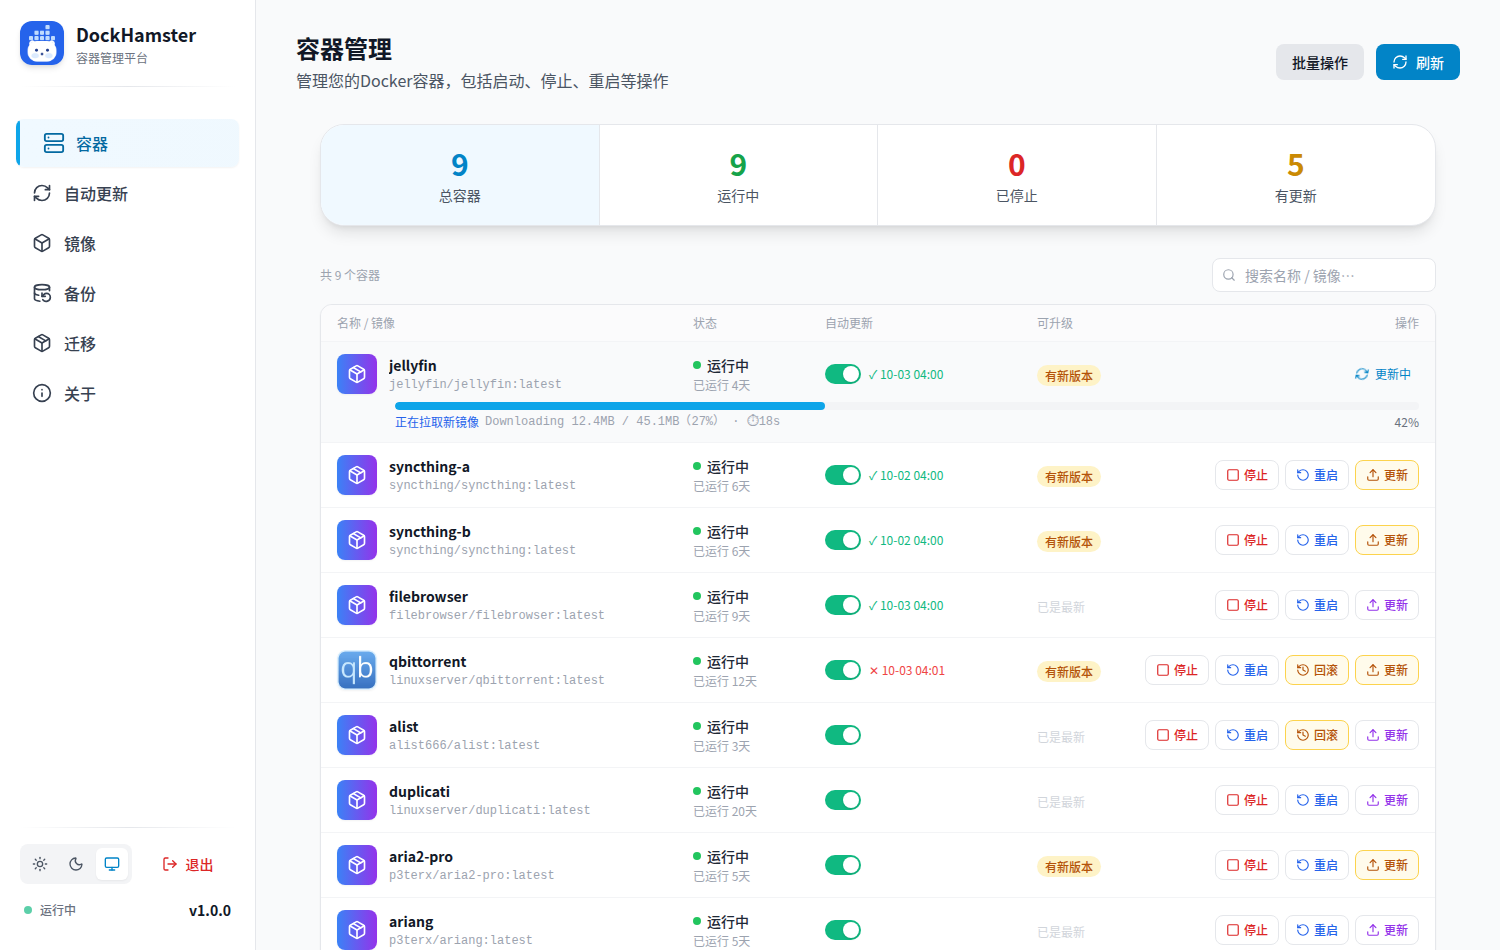
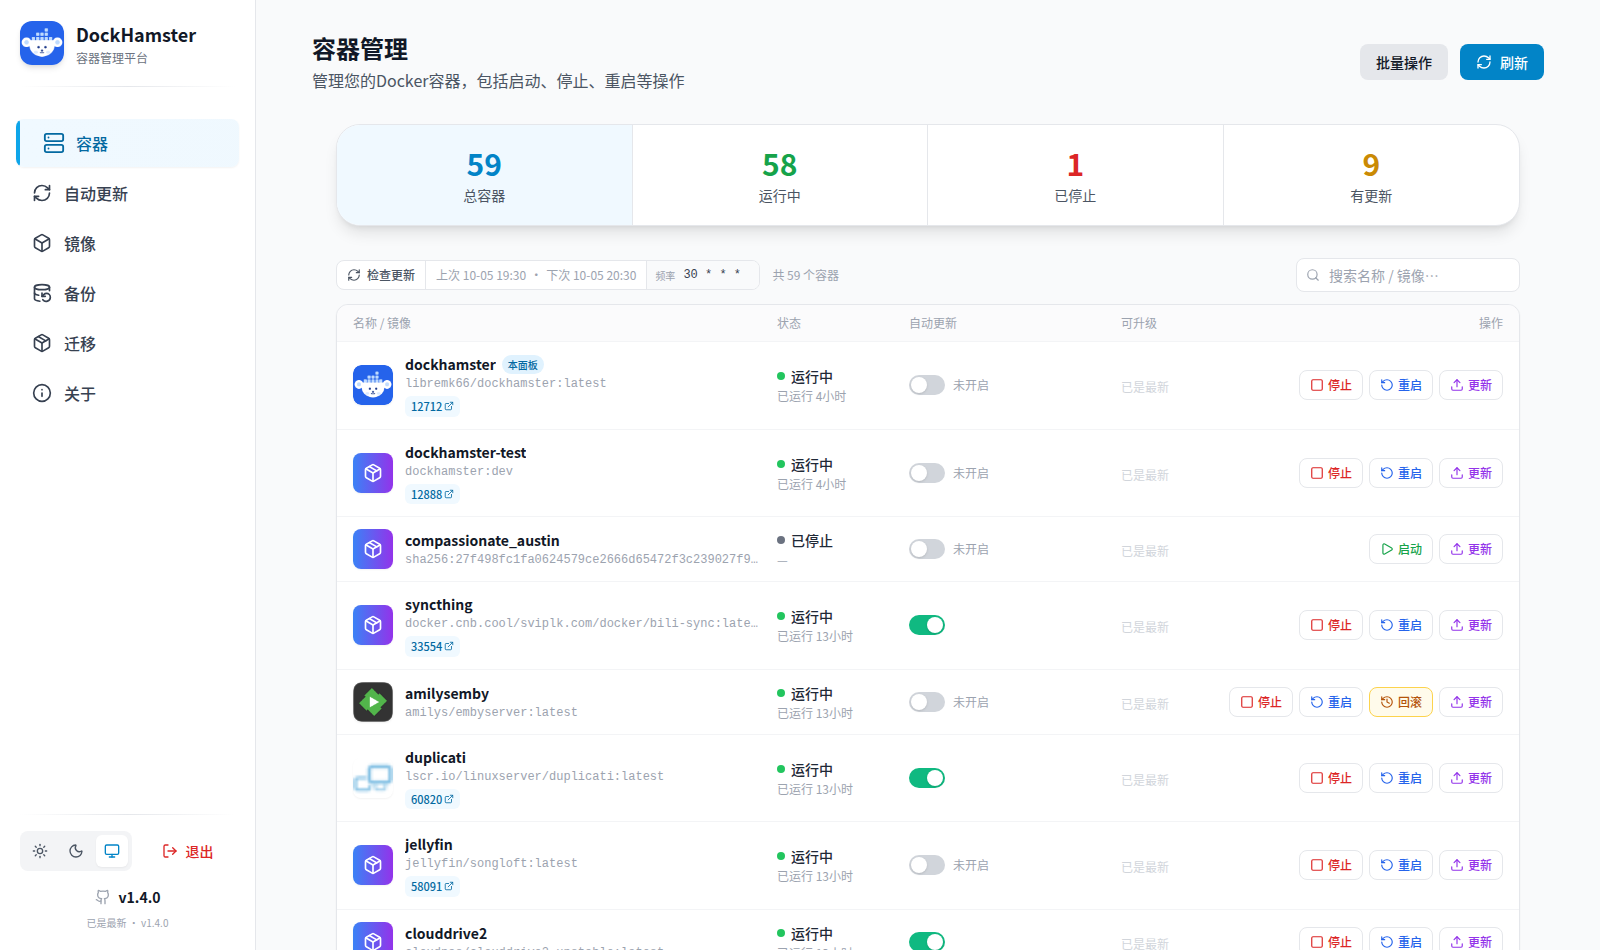
docs: 补充 v1.4.0 新功能说明与截图（端口直达/加速源/面板自更新/健康校验回滚/容器守护），更新参考项目致谢 [skip ci]

diff --git a/README.md b/README.md
@@ -7,7 +7,7 @@
 [![License](https://img.shields.io/badge/license-AGPL--3.0-blue)](LICENSE)
 
 > **Docker 容器管理面板 · 增强版**
-> 基于 [onlyLTY/dockerCopilot](https://github.com/onlyLTY/dockerCopilot)（AGPL-3.0）二次开发，专注"省心的容器运维"：自动更新、旧镜像清理、整组更新、多渠道通知、实时进度、列表化界面。
+> 基于 [onlyLTY/dockerCopilot](https://github.com/onlyLTY/dockerCopilot)（AGPL-3.0）二次开发，专注"省心的容器运维"：自动更新、旧镜像清理、整组更新、多渠道通知、实时进度、列表化界面、镜像加速源、更新健康校验与自动回滚、面板自更新、容器异常守护、Web 端口直达。
 
 ## 目录
 
@@ -40,13 +40,28 @@
 | 📊 **实时进度** | 批量与单个更新全程可见：真实进度条 + **字节级拉取进度** + 心跳耗时；批量有「进行中」面板，单个更新在容器行内**整行展开进度子行** |
 | 🏷 **镜像快照与回滚** | 更新后的旧镜像可按策略处置：**自动清理**（默认）或**打快照保留**；容器页一键回滚到任意快照，**回滚前会自动给当前版本也打一份快照**（双向可回滚）；全局默认 + 每容器单独覆盖 |
 | 📦 **容器迁移** | 三件套：**镜像体检**（找出换台机器就会丢的镜像）→ **打包导出**（docker save 镜像 + 容器配方 + compose + 一键导入脚本）→ **上传导入**（预检冲突，支持改名 / 端口重映射 / 卷路径映射）。迁移包自带 `import.sh`，**目标机没装面板也能还原** |
+| 🩺 **更新健康校验 + 自动回滚** | 更新后观察新容器是否稳定（退出 / 反复重启 / OOM / 健康检查失败都算异常）→ 自动删掉新容器、把旧容器改回原名启动；**创建/启动失败也回滚**，更新失败不再把服务撂倒 |
+| 🧭 **Web 端口直达 + 网站图标** | 容器行内直接列出对外端口，点一下新标签打开该容器的 Web 界面；图标自动匹配——内置常见镜像 logo，没有的自动抓取该容器网页 favicon（本地缓存 7 天） |
+| ⚡ **镜像加速源 + 测速** | 内置常用加速源，支持增删与**一键并发测速**（按延迟排序）；「加速拉取」可把 Docker Hub 镜像走选定加速源拉取并自动打回原名；可开启「更新时自动走加速源」（失败自动回退直连） |
+| 🔄 **面板自更新** | 面板更新自己不再"停到一半把自己停死"：用一次性**接力容器**完成替换，**启动失败自动回滚**；更新结果开机上报（日志 + 通知渠道） |
+| 🐕 **容器异常守护** | 后台巡检：容器意外退出 / 被 OOM 杀掉 / 10 分钟内反复重启 → 推送告警；恢复运行也发一条。面板主动的停止/重启/更新不会误报（静默窗口），同容器同类告警 30 分钟冷却 |
 | 🩹 **上游修复** | ① 修复多 RepoDigests 时"永远提示有更新"（[#165](https://github.com/onlyLTY/dockerCopilot/issues/165) 同源问题）② 检查缓存并发安全 ③ 更新时保持容器原有运行状态 |
 
 ## 三、界面预览
 
-**容器页**（列表行内即为自动更新开关与上次结果；更新中的容器在整行下方展开实时进度）：
+**容器页**（列表行内即为自动更新开关与上次结果；运行中容器的端口直接显示为可点按钮，图标自动匹配；更新中的容器在整行下方展开实时进度）：
 
 ![容器页](docs/screenshots/containers.png)
+
+**镜像加速源**（一键测速按延迟排序，「加速拉取」把 Docker Hub 镜像走选定源拉取后自动打回原名）：
+
+![加速源](docs/screenshots/accelerator.png)
+
+![加速拉取](docs/screenshots/accelerator-pull.png)
+
+**面板自更新**（侧栏提示有新版本时一键接力更新，失败自动回滚；也保留命令行方式）：
+
+![自更新](docs/screenshots/self-update.png)
 
 **镜像页**（总镜像 / 使用中 / 未使用 / 快照 / 无Tag 统计卡筛选，支持搜索）：
 
@@ -107,11 +122,14 @@ docker compose up -d
 
 ⚠ 自动更新会重建容器（等价于 `docker compose up -d` 的效果），请自行评估服务中断影响。
 
+💡 通知卡片里还有一个默认开启的 **「容器异常告警」** 开关：容器意外退出 / 被 OOM / 反复重启会走同一套通知渠道推送（面板主动操作不误报）。
+
 ## 六、上游与致谢
 
 DockHamster 的前身是原项目的一个增强分支，现已作为独立项目维护：
 
 - 上游项目：[onlyLTY/dockerCopilot](https://github.com/onlyLTY/dockerCopilot)（后端）· [dongshull/Docker-Copilot-React](https://github.com/dongshull/Docker-Copilot-React)（前端），**版权归原作者所有**
+- 感谢 [ifsherlock/dockerCopilot](https://github.com/ifsherlock/dockerCopilot)：本项目的**面板自更新（接力容器方案）**、**镜像加速源管理**、**Web 端口直达 / favicon** 等功能参考了该增强分支的设计思路（同为 AGPL-3.0），在此致谢
 - 本项目的多项通用修复已向上游提交 PR（[#166](https://github.com/onlyLTY/dockerCopilot/pull/166)），欢迎去官方 issue 下 +1
 - 完整功能与 API 说明见 [FEATURES.md](./FEATURES.md)；上游原始 README 备份见 [README.upstream.md](./README.upstream.md)
 
